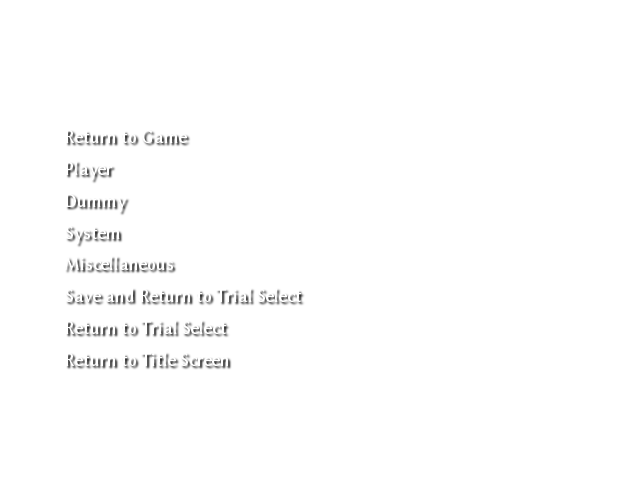
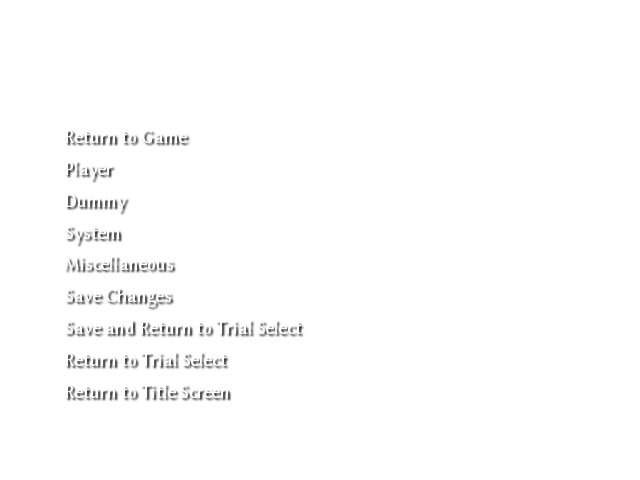
Added save option, fail timer, menu selection now starts on first pack, fixed preview canceling bug

Changed region(s): [[0.0938, 0.5938, 0.4688, 0.7812], [0.0938, 0.7812, 0.375, 0.8438]]

diff --git a/modules/TrialMode/TrialEditor/ComboTrialEditor.cpp b/modules/TrialMode/TrialEditor/ComboTrialEditor.cpp
@@ -180,6 +180,12 @@ ComboTrialEditor::ComboTrialEditor(const char *folder, const char *path, SokuLib
 	this->_score.rect.width = this->_score.texture.getSize().x / 4;
 	this->_score.rect.height = this->_score.texture.getSize().y;
 
+	this->_numbers.texture.loadFromGame("data/number/0000.bmp");
+	this->_numbers.setSize({10, 15});
+	this->_numbers.rect.top = 96;
+	this->_numbers.rect.width = 11;
+	this->_numbers.rect.height = 16;
+
 	if (json.contains("dolls") && json["dolls"].is_array()) {
 		for (int i = 0; i < json["dolls"].size(); i++) {
 			auto &obj = json["dolls"][i];
@@ -261,7 +267,7 @@ ComboTrialEditor::ComboTrialEditor(const char *folder, const char *path, SokuLib
 	this->_privateSquare = getField(json, false, &nlohmann::json::is_boolean, "private_square", "player");
 
 	this->_disableLimit = getField(json, false, &nlohmann::json::is_boolean, "disable_limit");
-	this->_uniformCardCost = getField(json, -1, &nlohmann::json::is_number, "uniform_card_cost");
+	this->_uniformCardCost = getField(json, 0, &nlohmann::json::is_number, "uniform_card_cost");
 	this->_playerStartPos = getField(json, 480.f, &nlohmann::json::is_number, "pos", "player");
 	this->_dummyStartPos.x = getField(json, 800.f, &nlohmann::json::is_number, "x", "dummy", "pos");
 	this->_dummyStartPos.y = getField(json, 0.f, &nlohmann::json::is_number, "y", "dummy", "pos");
@@ -469,7 +475,7 @@ bool ComboTrialEditor::update(bool &canHaveNextFrame)
 			SokuLib::playSEWaveBuffer(0x29);
 		}
 		if (SokuLib::inputMgrs.input.c == 1 && this->_dollCursorPos != this->_dolls.size()) {
-			SokuLib::getBattleMgr().leftCharacterManager.objects.list.vector()[this->_dollCursorPos * 2]->direction =
+			SokuLib::getBattleMgr().leftCharacterManager.objects.list.vector()[this->_dollCursorPos * 2]->direction = static_cast<SokuLib::Direction>(this->_dolls[this->_dollCursorPos].dir * -1);
 			this->_dolls[this->_dollCursorPos].dir = static_cast<SokuLib::Direction>(this->_dolls[this->_dollCursorPos].dir * -1);
 			SokuLib::playSEWaveBuffer(0x28);
 		}
@@ -545,6 +551,8 @@ bool ComboTrialEditor::update(bool &canHaveNextFrame)
 	else if (this->_privateSquare)
 		battleMgr.leftCharacterManager.privateSquare = 900 - (battleMgr.leftCharacterManager.privateSquare & 1);
 
+	if (this->_playingIntro && this->_waitCounter == 31)
+		this->_initGameStart();
 	if (this->_playingIntro && SokuLib::inputMgrs.input.a != 1 && this->_waitCounter == 30 && !this->_comboPageDisplayed && !this->_isRecordingScore) {
 		battleMgr.rightCharacterManager.objectBase.position.x = this->_dummyStartPos.x;
 		battleMgr.rightCharacterManager.objectBase.position.y = this->_dummyStartPos.y;
@@ -786,29 +794,33 @@ void ComboTrialEditor::_initGameStart()
 		this->_needInit = true;
 		return;
 	}
+	puts("Init");
 	this->_dollSelected = false;
 	this->_needInit = false;
 	this->_currentDoll = 0;
+	this->_actionWaitCounter = 0;
 	this->_isStart = false;
 	this->_dummyHit = false;
 	this->_finished = false;
-	this->_playingIntro = false;
-	if (this->_isRecordingScore) {
-		this->_refreshScoreSprites(this->_scoreEdited);
-		this->_openPause();
-		SokuLib::playSEWaveBuffer(0x28);
+	if (!this->_playingIntro || this->_waitCounter != 31) {
+		this->_playingIntro = false;
+		if (this->_isRecordingScore) {
+			this->_refreshScoreSprites(this->_scoreEdited);
+			this->_openPause();
+			SokuLib::playSEWaveBuffer(0x28);
+		}
+		this->_isRecordingScore = this->_editingScore && !this->_isRecordingScore;
+		this->_playingIntro = this->_playComboAfterIntro || this->_isRecordingScore;
+		if (this->_playingIntro) {
+			this->_waitCounter += 32;
+			(*reinterpret_cast<char **>(0x8985E8))[0x494] = 22;
+		}
 	}
-	this->_isRecordingScore = this->_editingScore && !this->_isRecordingScore;
-	this->_playingIntro = this->_playComboAfterIntro || this->_isRecordingScore;
 	this->_playComboAfterIntro = false;
 	this->_actionCounter = 0;
 	if (this->_first)
 		this->_playBGM();
 	this->_first = false;
-	if (this->_playingIntro) {
-		this->_waitCounter += 30;
-		(*reinterpret_cast<char **>(0x8985E8))[0x494] = 22;
-	}
 
 	this->_firstFirst = 0;
 	battleMgr.leftCharacterManager.combo.limit = 0;
@@ -890,6 +902,10 @@ void ComboTrialEditor::_initGameStart()
 	battleMgr.rightCharacterManager.objectBase.direction =
 		battleMgr.rightCharacterManager.objectBase.position.x > battleMgr.leftCharacterManager.objectBase.position.x ?
 		SokuLib::LEFT : SokuLib::RIGHT;
+	for (auto &action : this->_exceptedActions) {
+		action->chargeCounter = 0;
+		action->counter = 0;
+	}
 }
 
 void ComboTrialEditor::_loadExpected(const std::string &expected)
@@ -1166,7 +1182,13 @@ void ComboTrialEditor::_initVanillaGame()
 int ComboTrialEditor::pauseOnUpdate()
 {
 	if (this->_playingIntro) {
+		this->_scores[this->_scoreEdited] = this->_oldScore;
+		this->_isRecordingScore = false;
+		this->_waitCounter = 0;
 		this->_initGameStart();
+		this->_isRecordingScore = false;
+		this->_playingIntro = false;
+		this->_waitCounter = 0;
 		if (this->_comboPageDisplayed)
 			return false;
 	}
@@ -1389,8 +1411,8 @@ int ComboTrialEditor::pauseOnUpdate()
 			this->_menuCursorPos += ComboTrialEditor::callbacks[this->_selectedSubcategory].size() + std::copysign(1, SokuLib::inputMgrs.input.verticalAxis);
 			this->_menuCursorPos %= ComboTrialEditor::callbacks[this->_selectedSubcategory].size();
 		} else {
-			this->_menuCursorPos += 8 + std::copysign(1, SokuLib::inputMgrs.input.verticalAxis);
-			this->_menuCursorPos %= 8;
+			this->_menuCursorPos += 9 + std::copysign(1, SokuLib::inputMgrs.input.verticalAxis);
+			this->_menuCursorPos %= 9;
 		}
 		SokuLib::playSEWaveBuffer(0x27);
 	}
@@ -1405,6 +1427,11 @@ int ComboTrialEditor::pauseOnUpdate()
 		} else if (this->_selectedSubcategory == 4) {
 			if (this->_menuCursorPos == 2) {
 				this->_weather = static_cast<SokuLib::Weather>(static_cast<int>(this->_weather + 22 + std::copysign(1, SokuLib::inputMgrs.input.horizontalAxis)) % 22);
+				SokuLib::playSEWaveBuffer(0x27);
+			} else if (this->_menuCursorPos == 3) {
+				this->_failTimer = static_cast<int>(this->_failTimer + 310 + std::copysign(10, SokuLib::inputMgrs.input.horizontalAxis)) % 310;
+				if (this->_failTimer < 30)
+					this->_failTimer = SokuLib::inputMgrs.input.horizontalAxis > 0 ? 30 : 300;
 				SokuLib::playSEWaveBuffer(0x27);
 			}
 		}
@@ -1540,7 +1567,8 @@ const std::vector<bool (ComboTrialEditor::*)()> ComboTrialEditor::callbacks[] = 
 		&ComboTrialEditor::playOutro,   //Play outro
 		&ComboTrialEditor::playPreview  //Play preview
 	},
-	{&ComboTrialEditor::saveReturnToCharSelect},//Save
+	{&ComboTrialEditor::saveOnly},
+	{&ComboTrialEditor::saveReturnToCharSelect},
 	{&ComboTrialEditor::returnToCharSelect},
 	{&ComboTrialEditor::returnToTitleScreen}
 };
@@ -1980,6 +2008,14 @@ bool ComboTrialEditor::playPreview()
 	return false;
 }
 
+bool ComboTrialEditor::saveOnly()
+{
+	if (!this->save())
+		return SokuLib::playSEWaveBuffer(0x29), true;
+	SokuLib::playSEWaveBuffer(0x28);
+	return true;
+}
+
 bool ComboTrialEditor::saveReturnToCharSelect()
 {
 	if (!this->save())
@@ -2392,6 +2428,9 @@ void ComboTrialEditor::systemRender() const
 
 void ComboTrialEditor::miscRender() const
 {
+	auto size = 0;
+	unsigned buffer = this->_failTimer;
+
 	this->_introSprite.draw();
 	this->_outroSprite.draw();
 	this->_weatherArrows.draw();
@@ -2401,6 +2440,19 @@ void ComboTrialEditor::miscRender() const
 		this->_weathers.rect.top = (this->_weather + 1) % 22 * 24;
 		this->_weathers.draw();
 	}
+
+	do {
+		size++;
+		buffer /= 10;
+	} while (buffer);
+	buffer = this->_failTimer;
+	this->_numbers.setPosition({460 + size * 11 / 2, 226});
+	do {
+		this->_numbers.rect.left = 1 + 11 * (buffer % 10);
+		this->_numbers.draw();
+		this->_numbers.setPosition({this->_numbers.getPosition().x - 11, this->_numbers.getPosition().y});
+		buffer /= 10;
+	} while (buffer);
 }
 
 bool ComboTrialEditor::_copyDeckToPlayerDeck()
@@ -2561,6 +2613,7 @@ bool ComboTrialEditor::_selectScoreMenuItem()
 		SokuLib::playSEWaveBuffer(0x28);
 		return true;
 	case 3:
+		this->_oldScore = this->_scores[this->_scoreEdited];
 		this->_scores[this->_scoreEdited].hits = 0;
 		this->_scores[this->_scoreEdited].damage = 0;
 		this->_scores[this->_scoreEdited].minLimit = 0;

diff --git a/modules/TrialMode/TrialEditor/ComboTrialEditor.hpp b/modules/TrialMode/TrialEditor/ComboTrialEditor.hpp
@@ -39,7 +39,7 @@ private:
 	struct ScorePrerequisites {
 		unsigned attempts = -1;
 		unsigned hits = 0;
-		int damage = INT32_MIN;
+		int damage = 0;
 		unsigned minLimit = 0;
 
 		ScorePrerequisites() = default;
@@ -143,12 +143,14 @@ private:
 	bool _recordingCombo = false;
 	bool _editingScore = false;
 	bool _isRecordingScore = false;
+	ScorePrerequisites _oldScore;
 	std::vector<std::unique_ptr<RecordedAction>> _recordBuffer;
 	SokuLib::Profile _fakeProfile;
 	SokuLib::ProfileDeckEdit *_deckEditMenu = nullptr;
 	SokuLib::Vector2f _dummyStartPosTmp;
 	SokuLib::Character *_characterEdit = nullptr;
 	SokuLib::Sprite _characterSprite;
+	mutable SokuLib::DrawUtils::Sprite _numbers;
 	mutable SokuLib::DrawUtils::Sprite _digits[6];
 	mutable SokuLib::DrawUtils::Sprite _weathers;
 	SokuLib::DrawUtils::RectangleShape _stageRect;
@@ -209,6 +211,7 @@ private:
 	bool setFailTimer();
 	bool setOutro();
 	bool setIntro();
+	bool saveOnly();
 	bool saveReturnToCharSelect();
 	bool playIntro();
 	bool playOutro();

diff --git a/modules/TrialMode/Menu.cpp b/modules/TrialMode/Menu.cpp
@@ -1789,7 +1789,7 @@ failed2:
 		nbMode != uniqueModes.size() ||
 		nbTopic != uniqueCategories.size()
 	) {
-		currentPack = -3;
+		currentPack = -loadedPacks.empty();
 		currentEntry = -1;
 		shownPack = 0;
 		nameFilter = -1;
@@ -1832,9 +1832,9 @@ failed2:
 		sprite->rect.height = sprite->texture.getSize().y;
 		sprite->setSize({80, 32});
 		sprite->setPosition({
-					    140 + 100 * (i / 9),
-					    60 + 40 * (i % 9),
-				    });
+			140 + 100 * (i / 9),
+			60 + 40 * (i % 9),
+		});
 		i++;
 	}
 }

diff --git a/modules/TrialMode/Trial/ComboTrial.hpp b/modules/TrialMode/Trial/ComboTrial.hpp
@@ -30,7 +30,7 @@ private:
 	struct ScorePrerequisites {
 		unsigned attempts = -1;
 		unsigned hits = 0;
-		int damage = INT32_MIN;
+		int damage = 0;
 		unsigned minLimit = 0;
 
 		ScorePrerequisites() = default;
